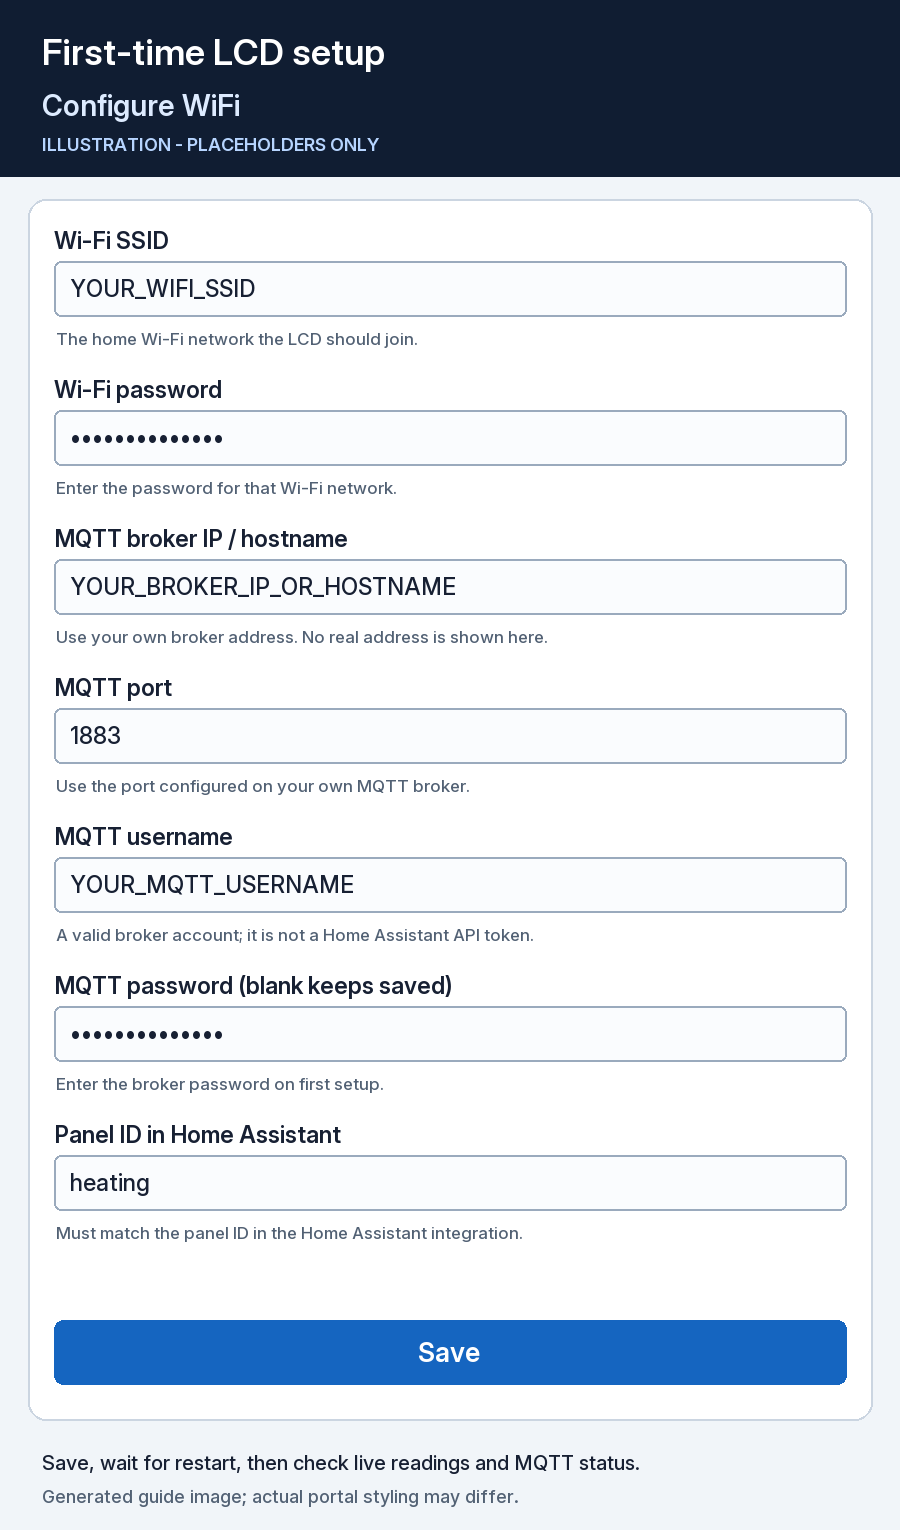
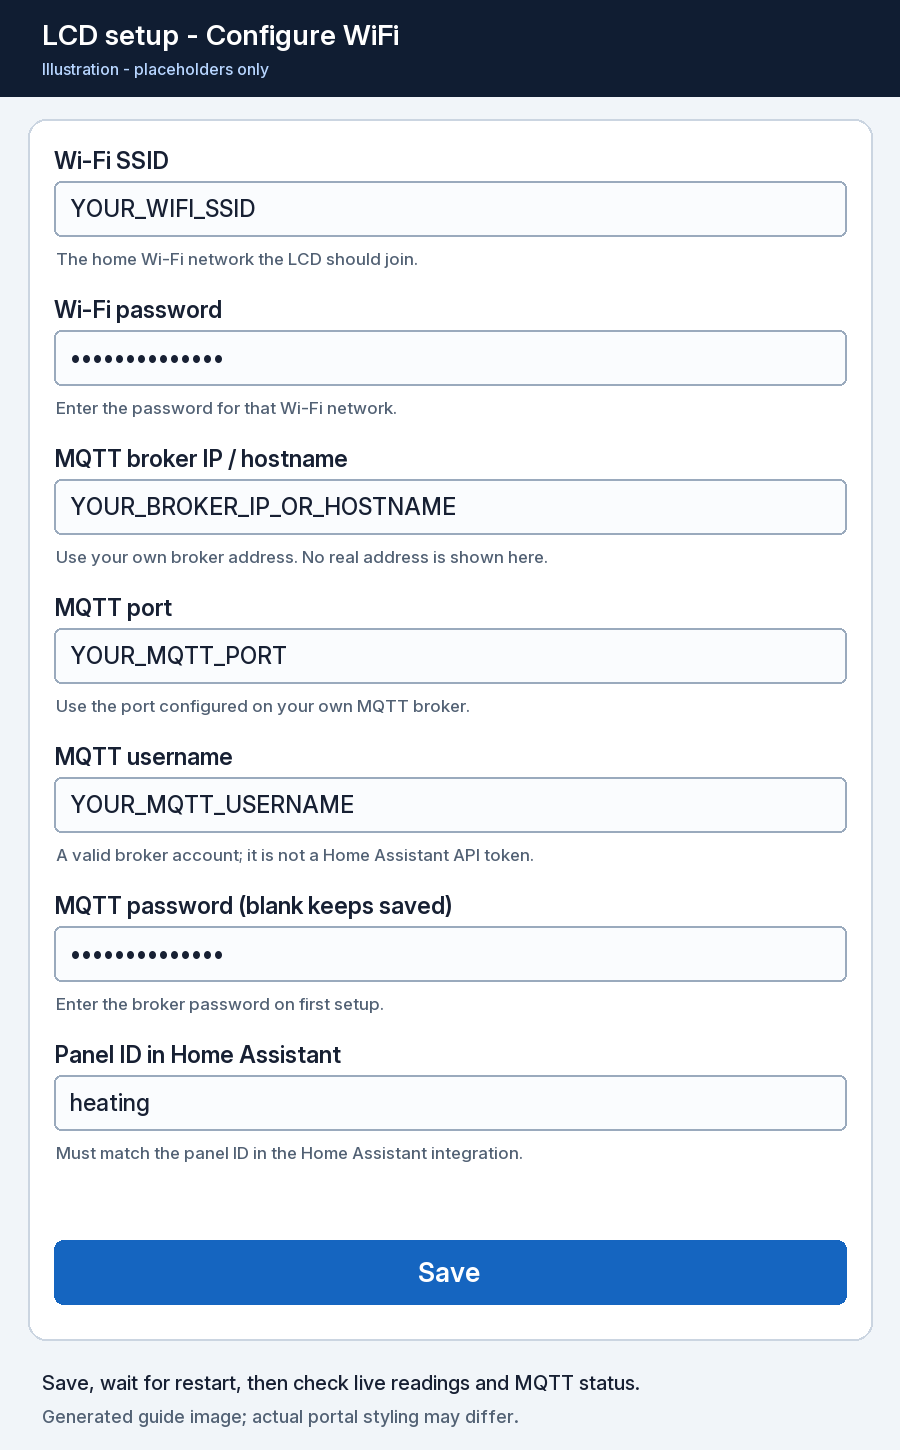
Compact setup guide, use a port placeholder and explain weather prerequisites

Changed region(s): [[0.0, 0.0, 1.0, 0.8069], [0.0311, 0.8379, 0.9644, 0.9931]]

diff --git a/tests/test_public_defaults.py b/tests/test_public_defaults.py
@@ -13,3 +13,7 @@ class PublicDefaultsTests(unittest.TestCase):
     def test_broker_is_entered_at_setup(self):
         source = Path("firmware/ha_panel/config.h").read_text()
         self.assertIn('DEFAULT_BROKER[] = ""', source)
+
+    def test_broker_port_is_entered_at_setup(self):
+        source = Path("firmware/ha_panel/ha_panel.ino").read_text()
+        self.assertIn('"MQTT port", "", 5', source)

diff --git a/README.md b/README.md
@@ -154,10 +154,16 @@ to Ireland/UK daylight-saving rules.
 
 ## 3. Weather and rotation
 
-In **Configure > Weather page and page rotation**, enable weather and select
-your own Home Assistant weather entity. You can also choose a separate local
-temperature sensor. Provider temperature and sensor temperature stay distinct.
-Weather starts disabled until a source is configured.
+First install and configure a weather integration/provider in Home Assistant
+so it exposes a working `weather.*` entity. Follow that integration's setup
+instructions and confirm its weather entity is available and provides forecasts.
+Installing this project alone does not create a weather provider.
+
+Then open the HA Panel integration's **Configure > Weather page and page
+rotation**, enable weather, and select that entity. You can reach the integration
+settings from the companion HA Panel card's cog as well. You can also choose a
+separate local temperature sensor. Provider temperature and sensor temperature
+stay distinct. Weather starts disabled until a source is configured.
 
 The page shows current conditions, a rain outlook, supplied precipitation
 probabilities and three upcoming periods. Hourly forecasts are preferred;
@@ -216,11 +222,12 @@ include an installation's configured binary or whole-flash backup.
 
 The following are generated setup illustrations, not screenshots from a live
 device. Network names, device IDs, broker addresses and credentials are
-placeholders. The real portal may look slightly different.
+placeholders, including `YOUR_MQTT_PORT`. The real portal may look slightly
+different.
 
-![Connect to the LCD setup portal](docs/images/lcd-setup-connect-guide.png)
+<img src="docs/images/lcd-setup-connect-guide.png" alt="Connect to the LCD setup portal" width="560">
 
-![First-time Wi-Fi and MQTT configuration form with placeholders](docs/images/lcd-first-time-setup-form.png)
+<img src="docs/images/lcd-first-time-setup-form.png" alt="First-time Wi-Fi and MQTT setup using placeholders" width="480">
 
 The setup Wi-Fi password shown on the LCD, your home Wi-Fi password, and your
 MQTT password serve different purposes. Enter your home network credentials
